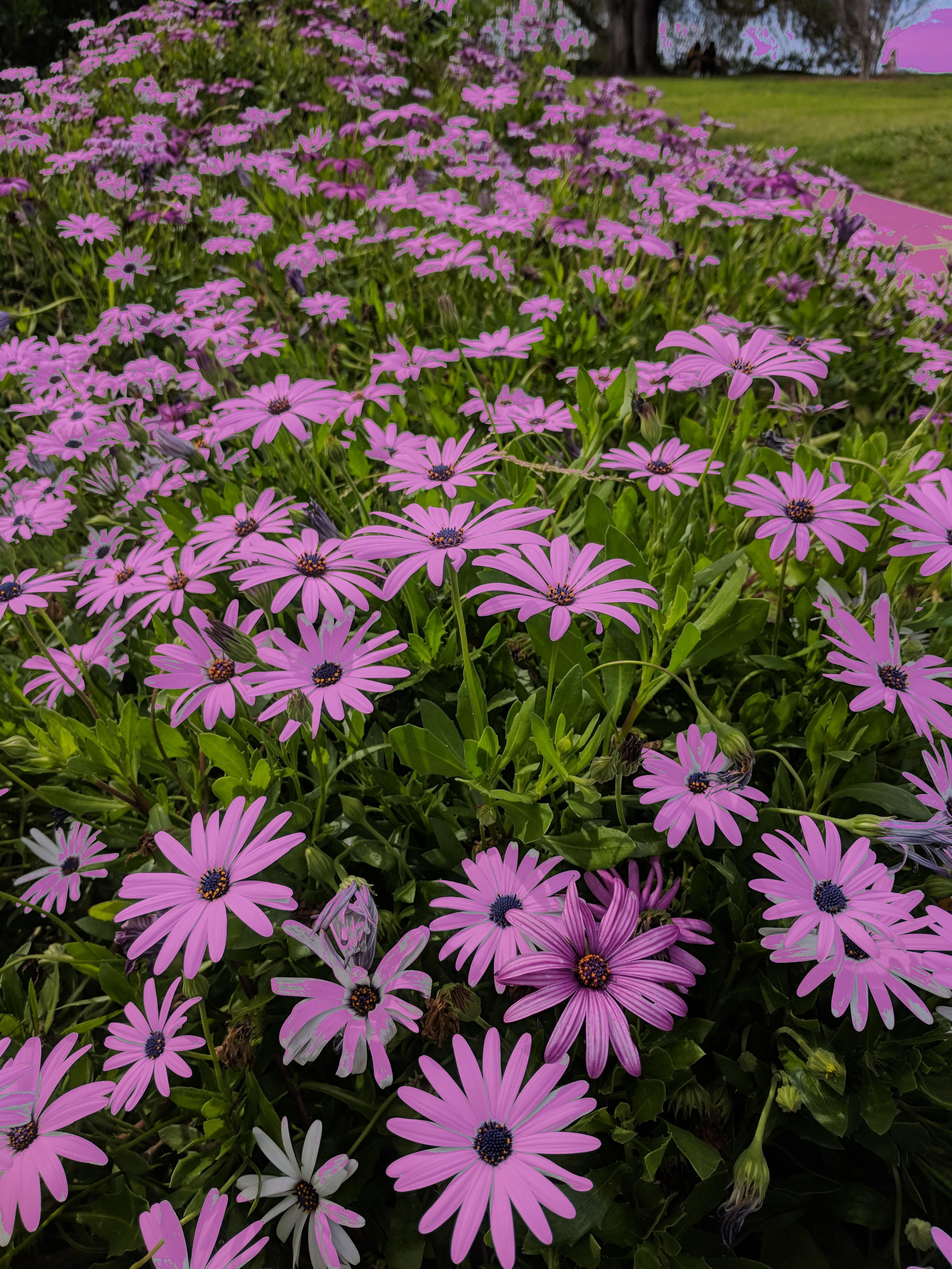
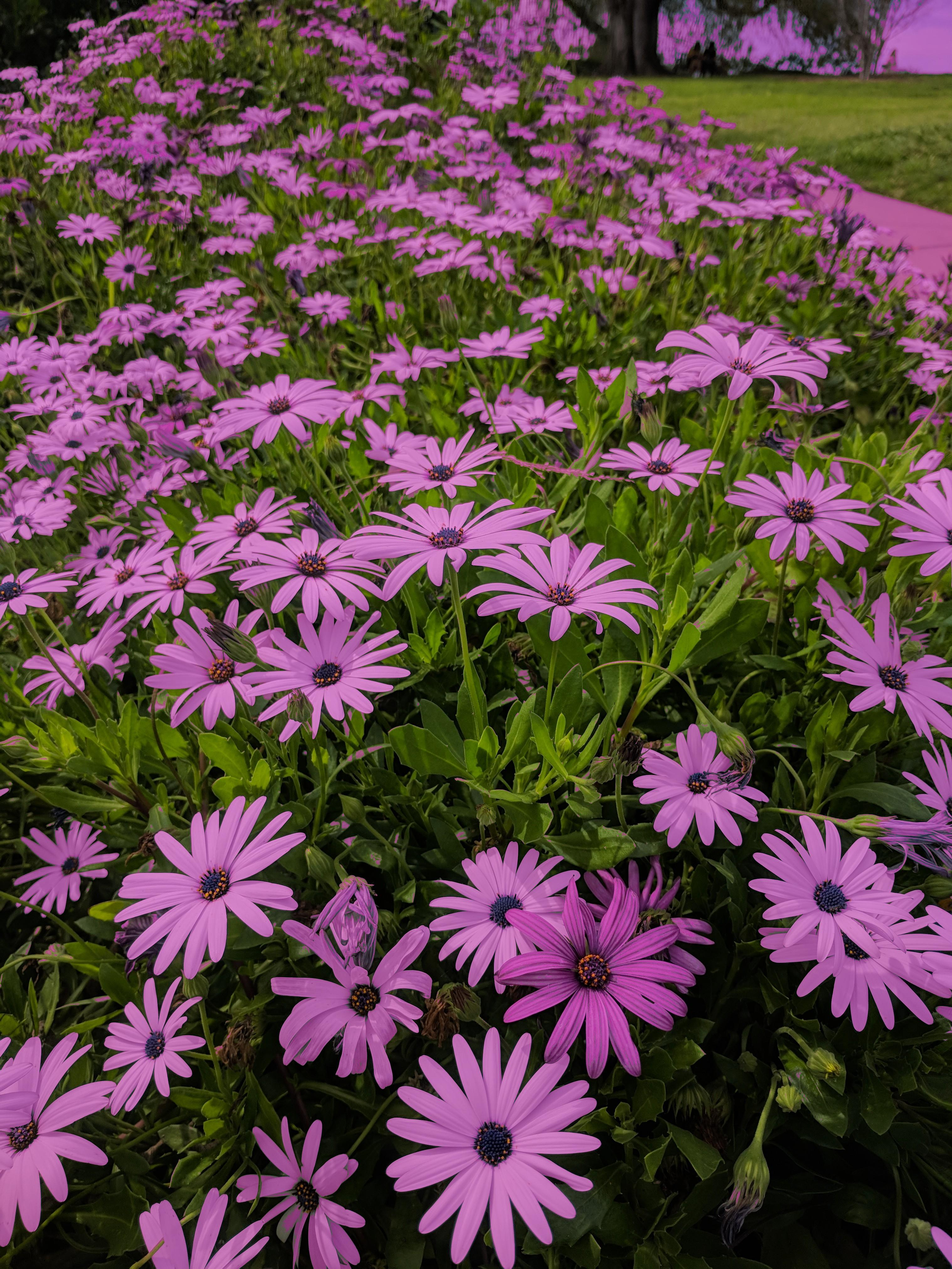
pixture looks better. need to change the sky and threads

diff --git a/src/Main.java b/src/Main.java
@@ -29,23 +29,18 @@ public class Main {
     }
 
     public static long regular(BufferedImage img){
-        long start_time = System.nanoTime();
-
         Color purple = new Color(190, 10, 160);
-        int width = img.getWidth();
-        int height = img.getHeight();
-
-        for (int x = 0; x < width; x++){
-            for (int y = 0; y < height; y++){
-                Color c = new Color(img.getRGB(x,y));
-                if (c.getRed() >= 150 && c.getGreen() >= 150 && c.getBlue() >= 140)
-                    img.setRGB(x,y,blend(c, purple));
-            }
-        }
+        long start_time = System.nanoTime();
+        change_part(img, 0, img.getWidth(), purple);
         long end_time = System.nanoTime();
         return (end_time-start_time)/1000000;
     }
+    public static boolean is_in_flower_range(Color pixel, Color bottom_range, Color upper_range){
+        return pixel.getBlue() >= bottom_range.getBlue() && pixel.getBlue() <= upper_range.getBlue()
+                && pixel.getRed() >= bottom_range.getRed() && pixel.getRed() <= upper_range.getRed()
+                && pixel.getGreen() >= bottom_range.getGreen() && pixel.getGreen() <= upper_range.getGreen();
 
+    }
 
     public static long threaded(BufferedImage img) throws InterruptedException {
         long start_time = System.nanoTime();
@@ -67,7 +62,7 @@ public class Main {
         for (int x = startx; x<endx; x++){
             for (int y = 0; y < img.getHeight(); y++){
                 Color c = new Color(img.getRGB(x,y));
-                if (c.getRed() >= 150 && c.getGreen() >= 150 && c.getBlue() >= 140)
+                if (is_in_flower_range(c, new Color(88, 88,76), new Color(255,255,255)))
                     img.setRGB(x,y,blend(c, purple));
             }
         }
@@ -76,7 +71,7 @@ public class Main {
     public static void main(String[] args) throws IOException, InterruptedException {
         BufferedImage img = ImageIO.read(new File("many-flowers.jpg"));
         System.out.println(regular(img));
-        System.out.println(threaded(img));
+        //System.out.println(threaded(img));
         File output = new File("output.jpg");
         try {
             ImageIO.write(img, "jpg", output);
